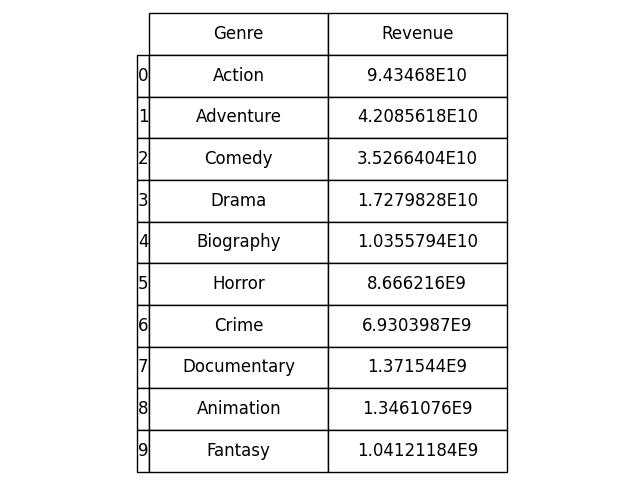
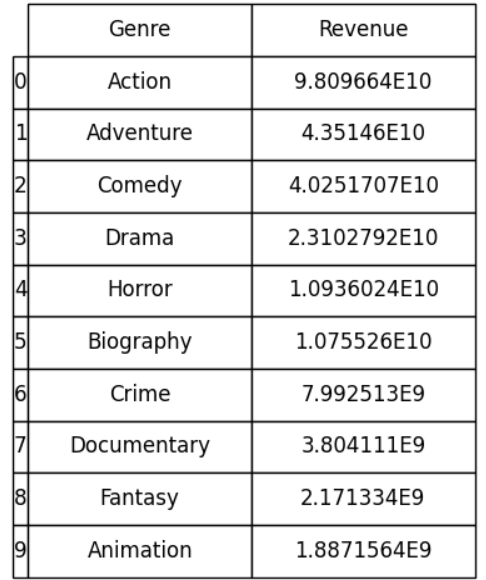
More queries

Changed region(s): [[0.0, 0.0, 0.9877, 1.0]]

diff --git a/SPARQL/netflix_top_genres.py b/SPARQL/netflix_top_genres.py
@@ -1,0 +1,53 @@
+from SPARQLWrapper import SPARQLWrapper, JSON
+import pandas as pd
+import matplotlib.pyplot as plt
+import numpy as np
+
+sparql = SPARQLWrapper("http://localhost:7200/repositories/linked_data_ut")
+sparql.setReturnFormat(JSON)
+
+query = """
+PREFIX mydata: <http://mydata.utwente.org/movies/>
+PREFIX schema1: <http://schema.org/>
+PREFIX swportal: <http://sw-portal.deri.org/ontologies/swportal#>
+PREFIX xsd: <http://www.w3.org/2001/XMLSchema#>
+
+SELECT ?genre (COUNT(?genre) AS ?genreCount)
+WHERE {
+
+  ?movie a mydata:Movie ;
+  schema1:genre ?genre .
+
+  GRAPH <http://mydata.utwente.org/movies/netflix> {
+    ?netRecord a mydata:CountryRecord ;
+               schema1:spatialCoverage "Italy" ;
+               ?property ?movie ;
+			   schema1:Date ?date .
+	FILTER (YEAR(?date) = 2022)
+  }
+
+} GROUP BY ?genre
+ORDER BY DESC (COUNT(?genre))
+LIMIT 10
+"""
+
+sparql.setQuery(query)
+results = sparql.query().convert()
+rows = []
+for result in results["results"]["bindings"]:
+    rows.append({
+        "Genre": result["genre"]["value"],
+        "top 10 occurrences": result["genreCount"]["value"]
+    })
+
+df = pd.DataFrame(rows)
+fig, ax = plt.subplots()
+ax.axis("off")
+# plt.title("Top rated actors/crew with at least 5 movie credits that were in the Dutch Netflix top 10", fontsize=12, weight='bold')
+
+
+table = pd.plotting.table(ax, df, loc="center", cellLoc="center", colWidths=[0.3, 0.3])
+table.auto_set_font_size(False)
+table.set_fontsize(12)
+table.scale(1.2, 2.5)
+plt.show()

diff --git a/SPARQL/netflix_top10_actors_aggregate.py b/SPARQL/netflix_top10_actors_aggregate.py
@@ -55,7 +55,7 @@ try:
         
         ax = sns.barplot(x="Weeks in Top 10", y="Actor", data=df, color='darkblue')
         
-        plt.title("Crew with Most Presence in Netflix Top 10 (2022)", fontsize=16, weight='bold')
+        plt.title("People with Most Presence in Netflix Top 10 (2022)", fontsize=16, weight='bold')
         plt.xlabel("", fontsize=12)
         plt.ylabel("", fontsize=12)
         
